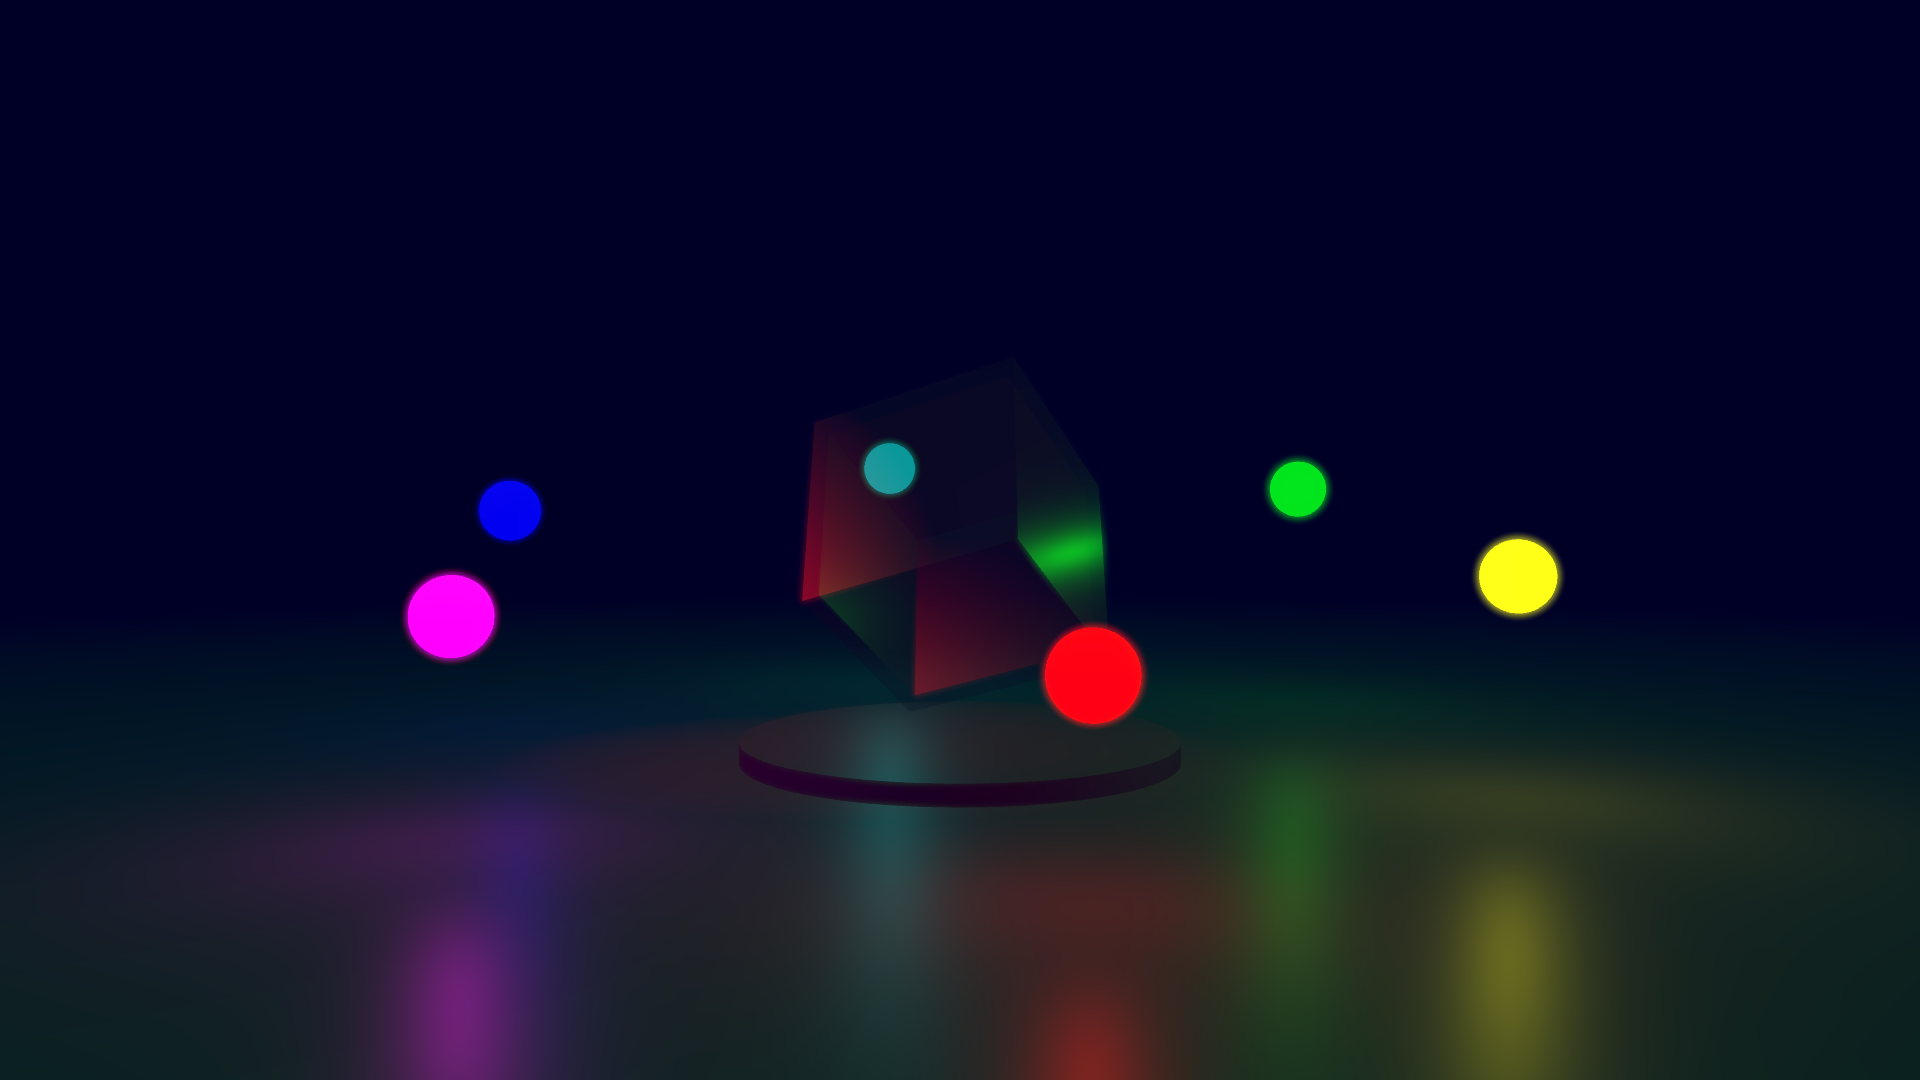
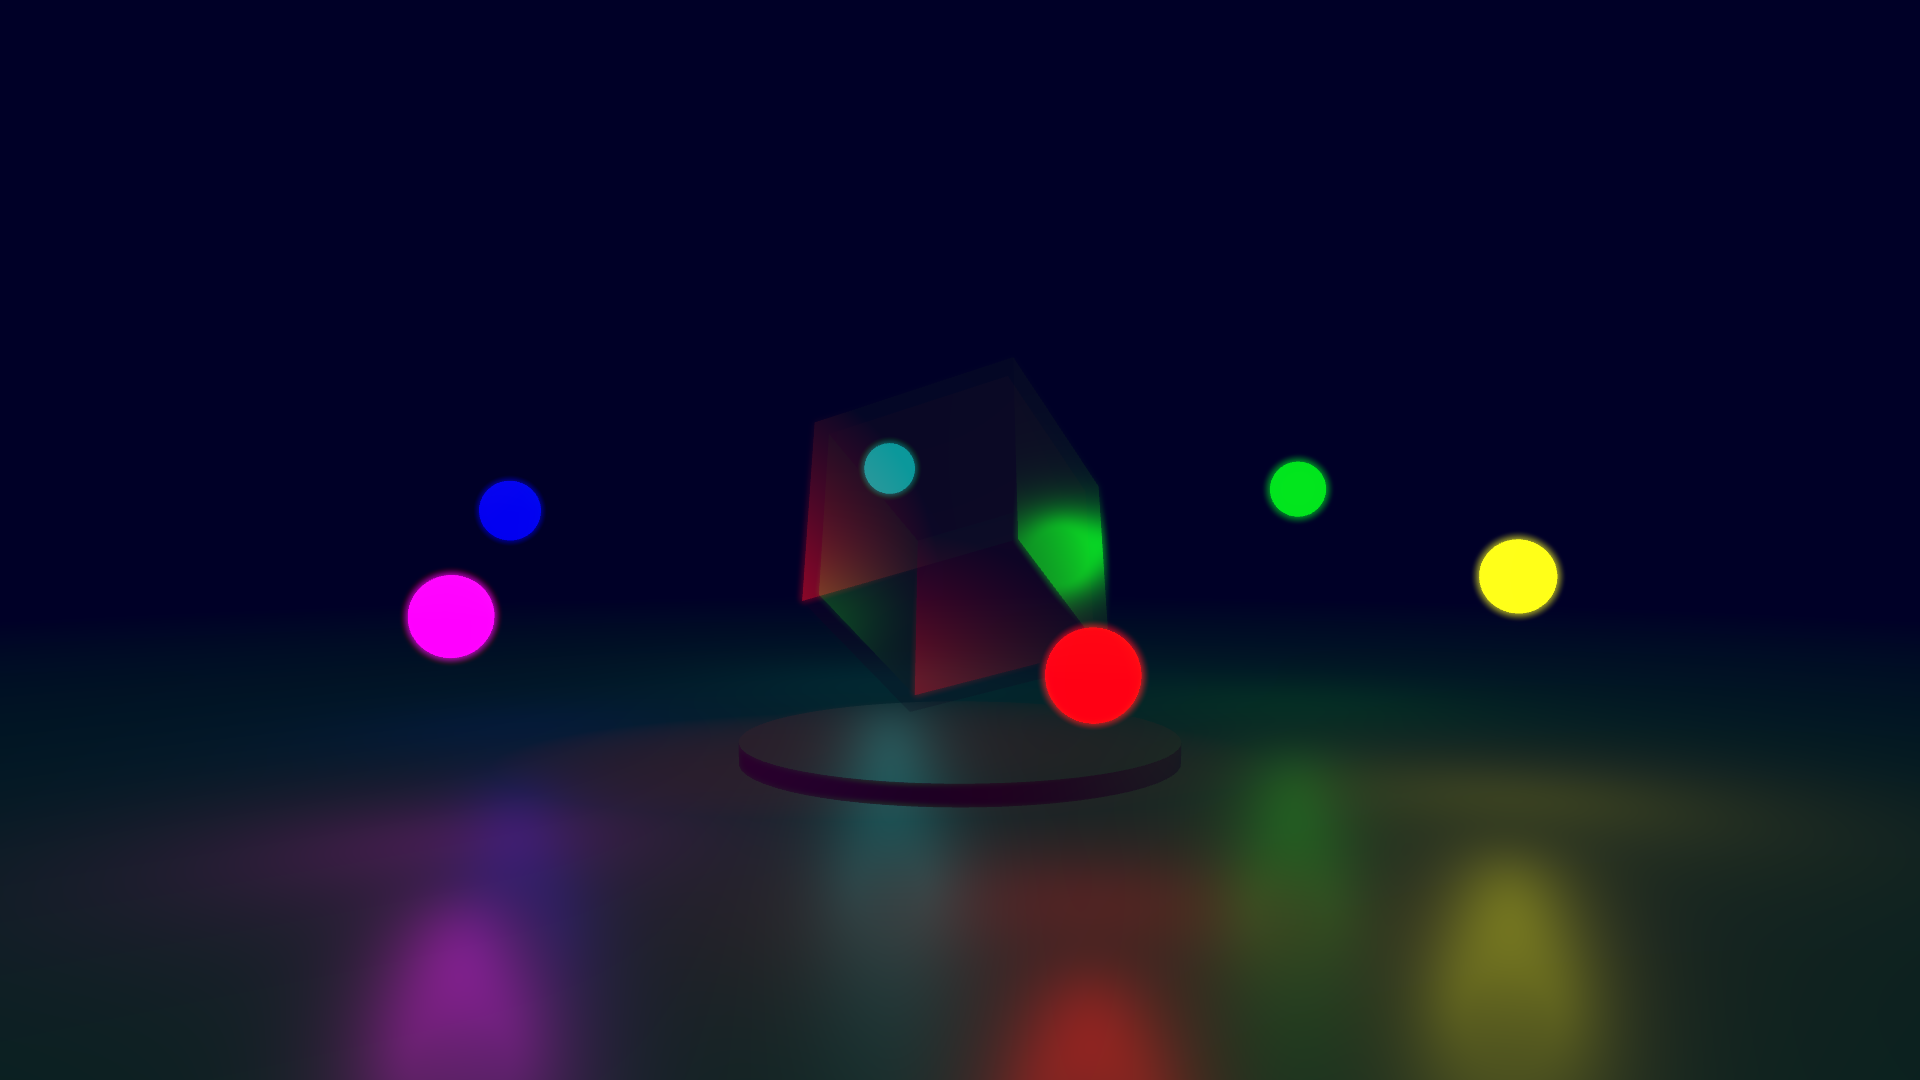
Merge branch 'main' into enh_translucency

diff --git a/src/flitter/render/controller/xtouch_mini.py b/src/flitter/render/controller/xtouch_mini.py
@@ -15,24 +15,26 @@ def get_driver_class():
 
 
 DEFAULT_CONFIG = [
-    Node('button', attributes={'id': Vector('a'), 'action': Vector('next')}),
-    Node('button', attributes={'id': Vector('b'), 'action': Vector('previous')}),
-    Node('button', attributes={'id': Vector(('rotary', 1)), 'action': Vector(('reset', 'rotary', 1))}),
-    Node('button', attributes={'id': Vector(('rotary', 2)), 'action': Vector(('reset', 'rotary', 2))}),
-    Node('button', attributes={'id': Vector(('rotary', 3)), 'action': Vector(('reset', 'rotary', 3))}),
-    Node('button', attributes={'id': Vector(('rotary', 4)), 'action': Vector(('reset', 'rotary', 4))}),
-    Node('button', attributes={'id': Vector(('rotary', 5)), 'action': Vector(('reset', 'rotary', 5))}),
-    Node('button', attributes={'id': Vector(('rotary', 6)), 'action': Vector(('reset', 'rotary', 6))}),
-    Node('button', attributes={'id': Vector(('rotary', 7)), 'action': Vector(('reset', 'rotary', 7))}),
-    Node('button', attributes={'id': Vector(('rotary', 8)), 'action': Vector(('reset', 'rotary', 8))}),
+    Node('button', attributes={'id': Vector.symbol('a'), 'action': Vector.symbol('next')}),
+    Node('button', attributes={'id': Vector.symbol('b'), 'action': Vector.symbol('previous')}),
+    Node('button', attributes={'id': Vector.symbol('rotary').concat(Vector(1)), 'action': Vector(('reset', 'rotary', 1))}),
+    Node('button', attributes={'id': Vector.symbol('rotary').concat(Vector(2)), 'action': Vector(('reset', 'rotary', 2))}),
+    Node('button', attributes={'id': Vector.symbol('rotary').concat(Vector(3)), 'action': Vector(('reset', 'rotary', 3))}),
+    Node('button', attributes={'id': Vector.symbol('rotary').concat(Vector(4)), 'action': Vector(('reset', 'rotary', 4))}),
+    Node('button', attributes={'id': Vector.symbol('rotary').concat(Vector(5)), 'action': Vector(('reset', 'rotary', 5))}),
+    Node('button', attributes={'id': Vector.symbol('rotary').concat(Vector(6)), 'action': Vector(('reset', 'rotary', 6))}),
+    Node('button', attributes={'id': Vector.symbol('rotary').concat(Vector(7)), 'action': Vector(('reset', 'rotary', 7))}),
+    Node('button', attributes={'id': Vector.symbol('rotary').concat(Vector(8)), 'action': Vector(('reset', 'rotary', 8))}),
 ]
 
 NOTE_BUTTON_MAPPING = {
-    32: Vector(('rotary', 1)), 33: Vector(('rotary', 2)), 34: Vector(('rotary', 3)), 35: Vector(('rotary', 4)),
-    36: Vector(('rotary', 5)), 37: Vector(('rotary', 6)), 38: Vector(('rotary', 7)), 39: Vector(('rotary', 8)),
+    32: Vector.symbol('rotary').concat(Vector(1)), 33: Vector.symbol('rotary').concat(Vector(2)),
+    34: Vector.symbol('rotary').concat(Vector(3)), 35: Vector.symbol('rotary').concat(Vector(4)),
+    36: Vector.symbol('rotary').concat(Vector(5)), 37: Vector.symbol('rotary').concat(Vector(6)),
+    38: Vector.symbol('rotary').concat(Vector(7)), 39: Vector.symbol('rotary').concat(Vector(8)),
     89: Vector(1), 90: Vector(2), 40: Vector(3), 41: Vector(4), 42: Vector(5), 43: Vector(6), 44: Vector(7), 45: Vector(8),
     87: Vector(9), 88: Vector(10), 91: Vector(11), 92: Vector(12), 86: Vector(13), 93: Vector(14), 94: Vector(15), 95: Vector(16),
-    84: Vector('a'), 85: Vector('b'),
+    84: Vector.symbol('a'), 85: Vector.symbol('b'),
 }
 
 BUTTON_LIGHT_MAPPING = {
@@ -49,13 +51,13 @@ ROTARY_CONTROLS_MAPPING = {
 TURN_CONTROL_ROTARY_MAPPING = {turn_control: rotary_id for rotary_id, (turn_control, light_control) in ROTARY_CONTROLS_MAPPING.items()}
 
 ALIASES = {
-    ('button', Vector('mc')): Vector(9),
-    ('button', Vector('reverse')): Vector(11),
-    ('button', Vector('forward')): Vector(12),
-    ('button', Vector('loop')): Vector(13),
-    ('button', Vector('stop')): Vector(14),
-    ('button', Vector('play')): Vector(15),
-    ('button', Vector('record')): Vector(16),
+    ('button', Vector.symbol('mc')): Vector(9),
+    ('button', Vector.symbol('reverse')): Vector(11),
+    ('button', Vector.symbol('forward')): Vector(12),
+    ('button', Vector.symbol('loop')): Vector(13),
+    ('button', Vector.symbol('stop')): Vector(14),
+    ('button', Vector.symbol('play')): Vector(15),
+    ('button', Vector.symbol('record')): Vector(16),
 }
 
 SPECIAL_ACTIONS = {
@@ -148,7 +150,7 @@ class XTouchMiniDriver(driver.ControllerDriver):
             light_note = BUTTON_LIGHT_MAPPING.get(button_id)
             button = XTouchMiniButton(self, button_id, light_note)
             self._buttons[button_id] = button
-        self._sliders[Vector('main')] = XTouchMiniFader(self, Vector('main'))
+        self._sliders[Vector.symbol('main')] = XTouchMiniFader(self, Vector.symbol('main'))
 
     async def start(self):
         self._run_task = asyncio.create_task(self.run())
@@ -184,7 +186,7 @@ class XTouchMiniDriver(driver.ControllerDriver):
                             if rotary.handle_turn(64 - value if value > 64 else value, event.timestamp):
                                 rotary.update_representation()
                         case midi.PitchBendEvent(channel=8):
-                            self._sliders[Vector('main')].handle_raw_position_change(event.value, event.timestamp)
+                            self._sliders[Vector.symbol('main')].handle_raw_position_change(event.value, event.timestamp)
                         case _:
                             logger.warning("Unhandled MIDI event: {}", event)
         except asyncio.CancelledError:

diff --git a/src/flitter/render/controller/push2.py b/src/flitter/render/controller/push2.py
@@ -21,20 +21,24 @@ from ...model import Vector, Node
 from ..window.canvas import draw
 
 
+RESET_ROTARY = Vector.symbol('reset').concat(Vector.symbol('rotary'))
+
 DEFAULT_CONFIG = [
-    Node('rotary', attributes={'id': Vector('tempo'), 'style': Vector('continuous'), 'action': Vector('tempo')}),
-    Node('button', attributes={'id': Vector('page_left'), 'action': Vector('previous')}),
-    Node('button', attributes={'id': Vector('page_right'), 'action': Vector('next')}),
-    Node('button', attributes={'id': Vector('tap_tempo'), 'action': Vector(['tap_tempo', 'rotary', 'tempo'])}),
-    Node('button', attributes={'id': Vector('metronome'), 'action': Vector(['reset', 'rotary', 'metronome'])}),
-    Node('button', attributes={'id': Vector('menu_1_0'), 'action': Vector(['reset', 'rotary', 1])}),
-    Node('button', attributes={'id': Vector('menu_1_1'), 'action': Vector(['reset', 'rotary', 2])}),
-    Node('button', attributes={'id': Vector('menu_1_2'), 'action': Vector(['reset', 'rotary', 3])}),
-    Node('button', attributes={'id': Vector('menu_1_3'), 'action': Vector(['reset', 'rotary', 4])}),
-    Node('button', attributes={'id': Vector('menu_1_4'), 'action': Vector(['reset', 'rotary', 5])}),
-    Node('button', attributes={'id': Vector('menu_1_5'), 'action': Vector(['reset', 'rotary', 6])}),
-    Node('button', attributes={'id': Vector('menu_1_6'), 'action': Vector(['reset', 'rotary', 7])}),
-    Node('button', attributes={'id': Vector('menu_1_7'), 'action': Vector(['reset', 'rotary', 8])}),
+    Node('rotary', attributes={'id': Vector.symbol('tempo'), 'style': Vector.symbol('continuous'), 'action': Vector.symbol('tempo')}),
+    Node('button', attributes={'id': Vector.symbol('page_left'), 'action': Vector.symbol('previous')}),
+    Node('button', attributes={'id': Vector.symbol('page_right'), 'action': Vector.symbol('next')}),
+    Node('button', attributes={'id': Vector.symbol('tap_tempo'),
+                               'action': Vector.symbol('tap_tempo').concat(Vector.symbol('rotary')).concat(Vector.symbol('tempo'))}),
+    Node('button', attributes={'id': Vector.symbol('metronome'),
+                               'action': Vector.symbol('reset').concat(Vector.symbol('rotary')).concat(Vector.symbol('metronome'))}),
+    Node('button', attributes={'id': Vector.symbol('menu_1_0'), 'action': RESET_ROTARY.concat(Vector(1))}),
+    Node('button', attributes={'id': Vector.symbol('menu_1_1'), 'action': RESET_ROTARY.concat(Vector(2))}),
+    Node('button', attributes={'id': Vector.symbol('menu_1_2'), 'action': RESET_ROTARY.concat(Vector(3))}),
+    Node('button', attributes={'id': Vector.symbol('menu_1_3'), 'action': RESET_ROTARY.concat(Vector(4))}),
+    Node('button', attributes={'id': Vector.symbol('menu_1_4'), 'action': RESET_ROTARY.concat(Vector(5))}),
+    Node('button', attributes={'id': Vector.symbol('menu_1_5'), 'action': RESET_ROTARY.concat(Vector(6))}),
+    Node('button', attributes={'id': Vector.symbol('menu_1_6'), 'action': RESET_ROTARY.concat(Vector(7))}),
+    Node('button', attributes={'id': Vector.symbol('menu_1_7'), 'action': RESET_ROTARY.concat(Vector(8))}),
 ]
 
 PALETTES = {
@@ -46,8 +50,8 @@ PALETTES = {
 PAD_NUMBER_ID_MAPPING = {number: Vector([8 - number // 8, number % 8 + 1]) for number in range(64)}
 
 ROTARY_ID_MAPPING = {
-    Encoder.TEMPO: Vector('tempo'),
-    Encoder.METRONOME: Vector('metronome'),
+    Encoder.TEMPO: Vector.symbol('tempo'),
+    Encoder.METRONOME: Vector.symbol('metronome'),
     Encoder.ZERO: Vector(1),
     Encoder.ONE: Vector(2),
     Encoder.TWO: Vector(3),
@@ -56,7 +60,7 @@ ROTARY_ID_MAPPING = {
     Encoder.FIVE: Vector(6),
     Encoder.SIX: Vector(7),
     Encoder.SEVEN: Vector(8),
-    Encoder.SETUP: Vector('setup'),
+    Encoder.SETUP: Vector.symbol('setup'),
 }
 
 SCREEN_ROTARIES = {
@@ -93,7 +97,7 @@ class Push2RotaryControl(driver.TouchControl, driver.EncoderControl):
 
     @property
     def raw_divisor(self):
-        steps = 18 if self.control_id == Vector('tempo') else 210
+        steps = 18 if self.control_id == Vector.symbol('tempo') else 210
         if self._turns is not None:
             steps = int(steps * self._turns)
         return steps
@@ -249,7 +253,7 @@ class Push2Driver(driver.ControllerDriver):
         self._pads = {}
         for number, control_id in PAD_NUMBER_ID_MAPPING.items():
             self._pads[control_id] = Push2PadControl(self, control_id, number)
-        self._slider = Push2SliderControl(self, Vector('main'))
+        self._slider = Push2SliderControl(self, Vector.symbol('main'))
         self._run_task = None
         self._screen_update_requested = True
         self._screen_canvas_node = None
@@ -284,7 +288,7 @@ class Push2Driver(driver.ControllerDriver):
             return self._rotaries.get(control_id)
         if kind == 'button':
             return self._buttons.get(control_id)
-        if kind == 'slider' and control_id == Vector('main'):
+        if kind == 'slider' and control_id == Vector.symbol('main'):
             return self._slider
         if kind == 'pad':
             return self._pads.get(control_id)

diff --git a/tests/test_scripts.py b/tests/test_scripts.py
@@ -146,13 +146,6 @@ class TestDocumentationDiagrams(FunctionalTest):
         self.assertTrue(len(scripts) > 0)
         self.run_scripts(scripts, target_fps=1, run_time=1)
 
-    @unittest.skipIf(sys.platform != 'linux', 'OpenGL ES only available on Linux')
-    def test_diagrams_opengl_es(self):
-        scripts_dir = Path(__file__).parent.parent / 'docs/diagrams'
-        scripts = sorted(path for path in scripts_dir.iterdir() if path.suffix == '.fl')
-        self.assertTrue(len(scripts) > 0)
-        self.run_scripts(scripts, target_fps=1, run_time=1, opengl_es=True, suffix='.es.png')
-
 
 class TestDocumentationTutorial(FunctionalTest):
     """
@@ -165,13 +158,6 @@ class TestDocumentationTutorial(FunctionalTest):
         self.assertTrue(len(scripts) > 0)
         self.run_scripts(scripts, target_fps=1, run_time=1)
 
-    @unittest.skipIf(sys.platform != 'linux', 'OpenGL ES only available on Linux')
-    def test_tutorial_opengl_es(self):
-        scripts_dir = Path(__file__).parent.parent / 'docs/tutorial_images'
-        scripts = sorted(path for path in scripts_dir.iterdir() if path.suffix == '.fl')
-        self.assertTrue(len(scripts) > 0)
-        self.run_scripts(scripts, target_fps=1, run_time=1, opengl_es=True, suffix='.es.png')
-
 
 class TestExamples(FunctionalTest):
     """
@@ -180,6 +166,8 @@ class TestExamples(FunctionalTest):
 
     SHORT = ['bauble.fl', 'canvas3d.fl', 'linelight.fl', 'solidgeometry.fl', 'textures.fl', 'video.fl']
     LONG = ['bounce.fl', 'hoops.fl', 'physics.fl', 'smoke.fl']
+    SHORT_ES = ['bauble.fl', 'canvas3d.fl', 'linelight.fl', 'solidgeometry.fl', 'textures.fl']
+    LONG_ES = ['bounce.fl', 'physics.fl']
 
     def test_short_examples(self):
         scripts_dir = Path(__file__).parent.parent / 'examples'
@@ -194,11 +182,11 @@ class TestExamples(FunctionalTest):
     @unittest.skipIf(sys.platform != 'linux', 'OpenGL ES only available on Linux')
     def test_short_examples_opengl_es(self):
         scripts_dir = Path(__file__).parent.parent / 'examples'
-        scripts = [scripts_dir / name for name in self.SHORT]
+        scripts = [scripts_dir / name for name in self.SHORT_ES]
         self.run_scripts(scripts, target_fps=1, run_time=1, opengl_es=True, suffix='.es.png')
 
     @unittest.skipIf(sys.platform != 'linux', 'OpenGL ES only available on Linux')
     def test_long_examples_opengl_es(self):
         scripts_dir = Path(__file__).parent.parent / 'examples'
-        scripts = [scripts_dir / name for name in self.LONG]
+        scripts = [scripts_dir / name for name in self.LONG_ES]
         self.run_scripts(scripts, target_fps=10, run_time=1, opengl_es=True, suffix='.es.png')

diff --git a/docs/canvas3d.md b/docs/canvas3d.md
@@ -195,11 +195,11 @@ depth order, followed by all instances with transparency in back-to-front
 depth order. Using translucency forces an additional render pass for the
 translucent objects to build up a backface depth/normal buffer.
 
-Instance ordering is based on the model transformation matrix and assumes that
-models have their centre placed at the model origin and are unit-sized. This
-will generally work for the built-in [primitive models](#primitive-models), but
-may fail to correctly sort for [external models](#external-models) and so
-a mix of different models with transparency may draw in the wrong order.
+Instance depth ordering is done by computing a bounding box for the model
+(aligned on the model axes) and then finding the corner nearest to the camera
+for each instance. This will generally work for well-spaced models but may fail
+to derive a correct ordering for close/overlapping models causing transparency
+to render incorrectly.
 
 Depth-buffer *writing* is turned **off** when rendering instances with
 transparency. This means that all transparent objects will be rendered fully
@@ -647,15 +647,15 @@ In addition to these transformation attributes, all models may have
 [material](#materials) attributes that provide material properties specific to
 the model.
 
-All model date is aggressively cached but automatically rebuilt if required.
-This includes automatically reloading external models if the file modification
-time-stamp changes. Multiple instances of the *same* model are actually collated
-and [dispatched simultaneously](#instance-ordering) to the GPU.
+Model data is aggressively cached but automatically rebuilt if required. This
+includes automatically reloading external models if the file modification
+time-stamp changes. Multiple instances of the *same* model are collated and
+[dispatched simultaneously](#instance-ordering) to the GPU.
 
 ### Primitive Models
 
 These models are all generated on-the-fly and all of them have their origin at
-their centre of mass.
+the centre of their bounding box.
 
 `!box`
 : This model represents a unit-edge cube, i.e, the corners are at
@@ -665,8 +665,11 @@ UV space.
 
 `!sphere`
 : This model represents a unit-radius sphere (strictly speaking, the surface is
-made up of triangular faces with corners at `1`). UV coordinates use the
-Equirectangular projection.
+made up of triangular faces with vertices on this sphere). UV coordinates use
+the [Equirectangular
+projection](https://en.wikipedia.org/wiki/Equirectangular_projection) with the
+model positive $z$ direction being "North" and the 0 longitude arc aligned
+to the model $x$ axis.
 
 `!cylinder`
 : This is a unit-radius and unit-height cylinder with its axis of rotational
@@ -679,7 +682,6 @@ cylinder.
 : This is a unit-radius and unit-height cone with its axis of rotational
 symmetry in the $z$ direction. UV coordinates are similar to `!cylinder` except
 that the upper $3/4$ of the UV space are wrapped around the sides of the cone.
-``
 
 The nodes `!sphere`, `!cylinder` and `!cone` all support an additional
 attribute:
@@ -690,7 +692,10 @@ cylinder this will be the number of rectangles making up the sides and the
 number of triangles making up the top and bottom circles. Cones are very
 similar except that the sides are made up of triangles as well. For spheres,
 the value gives the number of stripes of longitude and the number of stripes of
-latitude will be half this. The default in all primitives is `64`.
+latitude will be half this (rounded down). The default in all primitives is
+`64`. The minimum number of segments for a `!cylinder` or `!cone` is `2`
+(resulting in a flat double-sided rectangle or triangle respectively) and the
+minimum for a `!sphere` is `4` (resulting in an octahedron).
 
 :::{warning}
 The number of model vertices and faces scales linearly or quadratically (in the
@@ -714,7 +719,7 @@ will be automatically reloaded if this file changes.
 `repair=` ( `true` | `false` )
 : If set to `true`, attempts to *repair* the mesh by merging vertices and
 removing duplicate or degenerate faces, fixing normal directions and face
-windows, and capping holes. This can be useful if a mesh is rendering
+windings, and capping holes. This can be useful if a mesh is rendering
 incorrectly or is failing with [constructive solid
 geometry](#contructive-solid-geometry) operations. Default is `false`.
 
@@ -803,12 +808,12 @@ with the attributes:
 : The origin of the cutting plane.
 
 `normal=` *nX*`;`*nY*`;`*nZ*
-: The normal of the cutting plane (surface "up" direction).
+: The normal of the cutting plane (plane "up" direction).
 
-Everything on the up side of the plane will be cut. The engine will attempt to
-fill holes left in the mesh – this may not succeed for complex shapes. The
-`!slice` node may have multiple child nodes, in which case the result will be
-equivalent to a slice of the `!union` of the child nodes.
+Everything on the "up" side of the plane will be discarded. The engine will
+attempt to fill holes left in the mesh – though this may not succeed for complex
+shapes. The `!slice` node may have multiple child nodes, in which case the
+result will be equivalent to a slice of the `!union` of the child nodes.
 
 A model construction tree may contain `!transform` nodes at any point. These
 differ from normal transformations in that they apply the transforms to the
@@ -827,7 +832,7 @@ It therefore supports all of the standard [model](#models) and
 [material](#materials) attributes. The model will be cached so that each
 unique sequence of operations is only carried out once. Using the same tree in
 multiple places will result in multiple instances of this model as normal. Any
-change to the tree, including changes to slice planes or any transforms will
+change to the tree, including changes to slice planes or *any* transforms will
 result in a new model being generated.
 
 :::{warning}
@@ -875,7 +880,7 @@ instead.
 
 Note that the last step, computing a convex hull, effectively shrink-wraps the
 model. This will work fine if the original model was already convex, but if not
-this will paper over any concave sections. A warning will be written to the
+this will "paper over" any concave sections. A warning will be written to the
 console if this step is taken.
 
 The result of any CSG operation will also be a watertight mesh, this means that
@@ -883,6 +888,6 @@ all adjacent faces will have shared vertices with normals computed as an average
 of the face normals. For a smooth object, this will render correctly. However,
 a model with any sharp edges will show strange shading distortions at these
 edges. For this reason, constructed models automatically have [edge
-snapping](#model-shading) applied with the snap angle set to 0.05 turns (about
-18°). This can be controlled by adding an explicit `snap_edges` attribute to the
-top node in the model construction tree.
+snapping](#model-shading) applied with the snap angle set to 0.05 turns (18°).
+This can be controlled by adding an explicit `snap_edges` attribute to the top
+node in the model construction tree.

diff --git a/docs/builtins.md b/docs/builtins.md
@@ -8,6 +8,10 @@
 : Return a vector with the same length as *xs* formed by adding each value to an
 accumulator starting at *0*.
 
+`count(` *xs* `,` *ys* `)`
+: Return a vector with the same length as *xs* containing the number of times
+each of the elements in *xs* occurs in *ys*.
+
 `len(` *xs* `)`
 : Return the length of vector *xs*.
 
@@ -155,6 +159,9 @@ than *1* returning *1*.
 
 `quad(` *x* `)`
 : A quadratic easing function.
+
+`cubic(` *x* `)`
+: A cubic easing function.
 
 `snap(` *x* `)`
 : A square-root easing function (conceptually a quadratic easing function with
